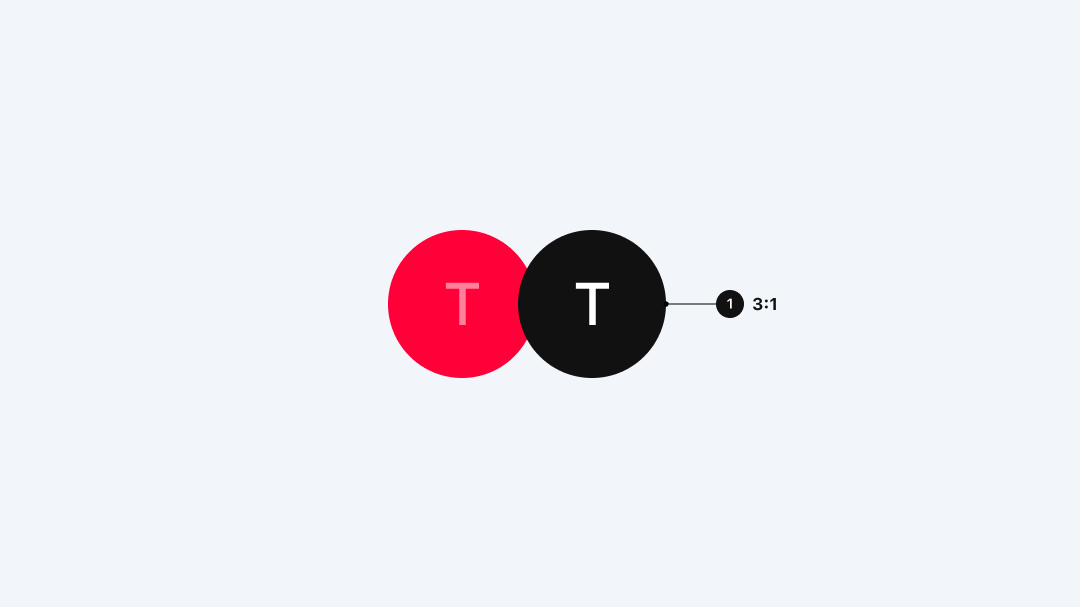
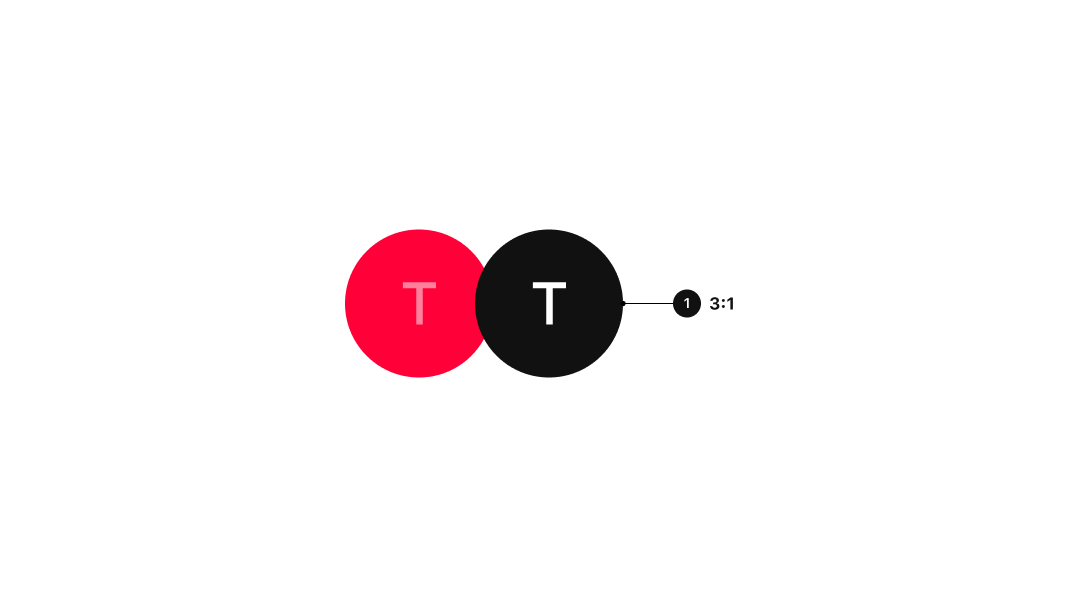
/

Changed region(s): [[0.3056, 0.3558, 0.7333, 0.6227]]

diff --git a/works/design-system.html b/works/design-system.html
@@ -49,11 +49,15 @@
                     <div class="section-body">
                         <p><strong>Philosophy</strong> — "11STREET Base on Universal"을 핵심 철학으로 Universal·Intuitive·Customer·Data·Interaction 가치를 정의했어요. 디자이너·개발자·기획자가 공유하는 공통 언어로, 브랜드 전반의 일관된 경험을 목표로 해요. 로고는 Street Sign 콘셉트로 설계됐고, 부드러운 애니메이션이 특징이에요. 국문 '11번가', 영문 '11STREET' 표기를 원칙으로 하며 변형은 금지해요.</p>
                     </div>
-                    <img src="images/DesignSystem/Details03.png" alt="Design System 디테일 3" class="project-image project-image-detail">
+                    <div class="project-image project-image-detail project-image-design-system-bg">
+                        <img src="images/DesignSystem/Details03.png" alt="Design System 디테일 3">
+                    </div>
                     <div class="section-body">
                         <p><strong>Brand Foundation</strong> — Brand 영역은 Principle, Logo, Font로 구성돼요. 11STREET Gothic은 3가지 굵기로 가격 등 특정 영역에 사용돼요. Foundation에서는 Color, Grid, Spacing, Typography, Accessibility 등을 정의해요. 8pt 기반 간격, 4단 구조 그리드, 24pt 아이콘 가이드, 기본 본문 14pt(모바일은 +1pt) 기준을 적용해 일관성을 유지해요.</p>
                     </div>
-                    <img src="images/DesignSystem/Details04.png" alt="Design System 디테일 4" class="project-image project-image-detail">
+                    <div class="project-image project-image-detail project-image-design-system-bg">
+                        <img src="images/DesignSystem/Details04.png" alt="Design System 디테일 4">
+                    </div>
                     <div class="section-body">
                         <p><strong>Components</strong> — Accordion, Button, Chip, Navigation, Tab 등 핵심 UI 요소를 체계적으로 안내해요. Button은 4가지 타입과 상태(Normal·Pressed·Disabled)를 정의해요. 각 컴포넌트는 기능·상태·간격 규칙을 표로 정리하고, 상황별 적용 가이드를 제공해 플랫폼 구축과 개선에 참고할 수 있도록 구성돼 있어요.</p>
                     </div>

diff --git a/styles.css b/styles.css
@@ -1333,6 +1333,25 @@ body.project-detail-page .project-details-section {
     border-radius: 4px;
 }
 
+/* Design System 디테일 3·4: project-image-ooah-split과 동일한 배경 영역 */
+.project-image-design-system-bg {
+    aspect-ratio: 1080 / 607;
+    min-height: 200px;
+    overflow: hidden;
+    background-color: rgba(255, 255, 255, 0.8);
+    box-sizing: border-box;
+    position: relative;
+}
+[data-theme="light"] .project-image-design-system-bg {
+    background-color: rgba(0, 0, 0, 0.05);
+}
+.project-image-design-system-bg img {
+    width: 100%;
+    height: 100%;
+    object-fit: contain;
+    display: block;
+}
+
 /* OOAh Details04 영역: 좌우 절반, 각 중앙에 64x64 GIF */
 .project-image-ooah-split {
     display: flex;
